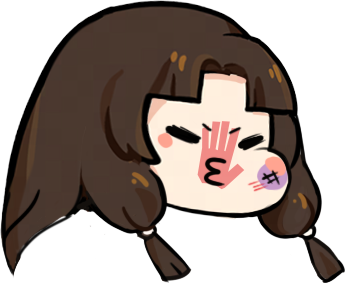
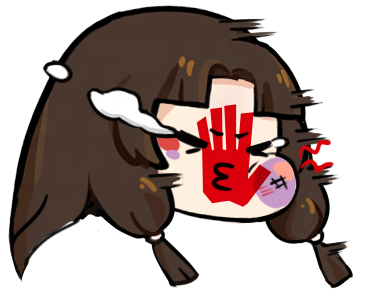
新增动画

Changed region(s): [[0.0, 0.0, 1.0, 1.0], [0.087, 0.6502, 0.1449, 0.7067]]

diff --git a/slap/assets/main/index.js b/slap/assets/main/index.js
@@ -1,10 +1,10 @@
 System.register("chunks:///_virtual/debug-view-runtime-control.ts",["./rollupPluginModLoBabelHelpers.js","cc"],(function(t){var e,o,i,n,s,l,r,a,g,h,p,c,C,d,m,u,L;return{setters:[function(t){e=t.applyDecoratedDescriptor,o=t.inheritsLoose,i=t.initializerDefineProperty,n=t.assertThisInitialized},function(t){s=t.cclegacy,l=t._decorator,r=t.Node,a=t.Canvas,g=t.UITransform,h=t.instantiate,p=t.Label,c=t.Color,C=t.RichText,d=t.Toggle,m=t.Button,u=t.director,L=t.Component}],execute:function(){var f,M,b,v,T,S,x,E,I;s._RF.push({},"b2bd1+njXxJxaFY3ymm06WU","debug-view-runtime-control",void 0);var A=l.ccclass,y=l.property;t("DebugViewRuntimeControl",(f=A("internal.DebugViewRuntimeControl"),M=y(r),b=y(r),v=y(r),f((x=e((S=function(t){function e(){for(var e,o=arguments.length,s=new Array(o),l=0;l<o;l++)s[l]=arguments[l];return e=t.call.apply(t,[this].concat(s))||this,i(e,"compositeModeToggle",x,n(e)),i(e,"singleModeToggle",E,n(e)),i(e,"EnableAllCompositeModeButton",I,n(e)),e._single=0,e.strSingle=["No Single Debug","Vertex Color","Vertex Normal","Vertex Tangent","World Position","Vertex Mirror","Face Side","UV0","UV1","UV Lightmap","Project Depth","Linear Depth","Fragment Normal","Fragment Tangent","Fragment Binormal","Base Color","Diffuse Color","Specular Color","Transparency","Metallic","Roughness","Specular Intensity","IOR","Direct Diffuse","Direct Specular","Direct All","Env Diffuse","Env Specular","Env All","Emissive","Light Map","Shadow","AO","Fresnel","Direct Transmit Diffuse","Direct Transmit Specular","Env Transmit Diffuse","Env Transmit Specular","Transmit All","Direct Internal Specular","Env Internal Specular","Internal All","Fog"],e.strComposite=["Direct Diffuse","Direct Specular","Env Diffuse","Env Specular","Emissive","Light Map","Shadow","AO","Normal Map","Fog","Tone Mapping","Gamma Correction","Fresnel","Transmit Diffuse","Transmit Specular","Internal Specular","TT"],e.strMisc=["CSM Layer Coloration","Lighting With Albedo"],e.compositeModeToggleList=[],e.singleModeToggleList=[],e.miscModeToggleList=[],e.textComponentList=[],e.labelComponentList=[],e.textContentList=[],e.hideButtonLabel=void 0,e._currentColorIndex=0,e.strColor=["<color=#ffffff>","<color=#000000>","<color=#ff0000>","<color=#00ff00>","<color=#0000ff>"],e.color=[c.WHITE,c.BLACK,c.RED,c.GREEN,c.BLUE],e}o(e,t);var s=e.prototype;return s.start=function(){if(this.node.parent.getComponent(a)){var t=this.node.parent.getComponent(g),e=.5*t.width,o=.5*t.height,i=.1*e-e,n=o-.1*o,s=this.node.getChildByName("MiscMode"),l=h(s);l.parent=this.node,l.name="Buttons";var r=h(s);r.parent=this.node,r.name="Titles";for(var u=0;u<2;u++){var L=h(this.EnableAllCompositeModeButton.getChildByName("Label"));L.setPosition(i+(u>0?450:150),n,0),L.setScale(.75,.75,.75),L.parent=r;var f=L.getComponent(p);f.string=u?"----------Composite Mode----------":"----------Single Mode----------",f.color=c.WHITE,f.overflow=0,this.labelComponentList[this.labelComponentList.length]=f}n-=20;for(var M=0,b=0;b<this.strSingle.length;b++,M++){b===this.strSingle.length>>1&&(i+=200,M=0);var v=b?h(this.singleModeToggle):this.singleModeToggle;v.setPosition(i,n-20*M,0),v.setScale(.5,.5,.5),v.parent=this.singleModeToggle.parent;var T=v.getComponentInChildren(C);T.string=this.strSingle[b],this.textComponentList[this.textComponentList.length]=T,this.textContentList[this.textContentList.length]=T.string,v.on(d.EventType.TOGGLE,this.toggleSingleMode,this),this.singleModeToggleList[b]=v}i+=200,this.EnableAllCompositeModeButton.setPosition(i+15,n,0),this.EnableAllCompositeModeButton.setScale(.5,.5,.5),this.EnableAllCompositeModeButton.on(m.EventType.CLICK,this.enableAllCompositeMode,this),this.EnableAllCompositeModeButton.parent=l;var S=this.EnableAllCompositeModeButton.getComponentInChildren(p);this.labelComponentList[this.labelComponentList.length]=S;var x=h(this.EnableAllCompositeModeButton);x.setPosition(i+90,n,0),x.setScale(.5,.5,.5),x.on(m.EventType.CLICK,this.changeTextColor,this),x.parent=l,(S=x.getComponentInChildren(p)).string="TextColor",this.labelComponentList[this.labelComponentList.length]=S;var E=h(this.EnableAllCompositeModeButton);E.setPosition(i+200,n,0),E.setScale(.5,.5,.5),E.on(m.EventType.CLICK,this.hideUI,this),E.parent=this.node.parent,(S=E.getComponentInChildren(p)).string="Hide UI",this.labelComponentList[this.labelComponentList.length]=S,this.hideButtonLabel=S,n-=40;for(var I=0;I<this.strMisc.length;I++){var A=h(this.compositeModeToggle);A.setPosition(i,n-20*I,0),A.setScale(.5,.5,.5),A.parent=s;var y=A.getComponentInChildren(C);y.string=this.strMisc[I],this.textComponentList[this.textComponentList.length]=y,this.textContentList[this.textContentList.length]=y.string,A.getComponent(d).isChecked=!!I,A.on(d.EventType.TOGGLE,I?this.toggleLightingWithAlbedo:this.toggleCSMColoration,this),this.miscModeToggleList[I]=A}n-=150;for(var D=0;D<this.strComposite.length;D++){var B=D?h(this.compositeModeToggle):this.compositeModeToggle;B.setPosition(i,n-20*D,0),B.setScale(.5,.5,.5),B.parent=this.compositeModeToggle.parent;var w=B.getComponentInChildren(C);w.string=this.strComposite[D],this.textComponentList[this.textComponentList.length]=w,this.textContentList[this.textContentList.length]=w.string,B.on(d.EventType.TOGGLE,this.toggleCompositeMode,this),this.compositeModeToggleList[D]=B}}else console.error("debug-view-runtime-control should be child of Canvas")},s.isTextMatched=function(t,e){var o=new String(t),i=o.search(">");return-1===i?t===e:(o=(o=o.substr(i+1)).substr(0,o.search("<")))===e},s.toggleSingleMode=function(t){for(var e=u.root.debugView,o=t.getComponentInChildren(C),i=0;i<this.strSingle.length;i++)this.isTextMatched(o.string,this.strSingle[i])&&(e.singleMode=i)},s.toggleCompositeMode=function(t){for(var e=u.root.debugView,o=t.getComponentInChildren(C),i=0;i<this.strComposite.length;i++)this.isTextMatched(o.string,this.strComposite[i])&&e.enableCompositeMode(i,t.isChecked)},s.toggleLightingWithAlbedo=function(t){u.root.debugView.lightingWithAlbedo=t.isChecked},s.toggleCSMColoration=function(t){u.root.debugView.csmLayerColoration=t.isChecked},s.enableAllCompositeMode=function(t){var e=u.root.debugView;e.enableAllCompositeMode(!0);for(var o=0;o<this.compositeModeToggleList.length;o++){this.compositeModeToggleList[o].getComponent(d).isChecked=!0}var i=this.miscModeToggleList[0].getComponent(d);i.isChecked=!1,e.csmLayerColoration=!1,(i=this.miscModeToggleList[1].getComponent(d)).isChecked=!0,e.lightingWithAlbedo=!0},s.hideUI=function(t){var e=this.node.getChildByName("Titles"),o=!e.active;this.singleModeToggleList[0].parent.active=o,this.miscModeToggleList[0].parent.active=o,this.compositeModeToggleList[0].parent.active=o,this.EnableAllCompositeModeButton.parent.active=o,e.active=o,this.hideButtonLabel.string=o?"Hide UI":"Show UI"},s.changeTextColor=function(t){this._currentColorIndex++,this._currentColorIndex>=this.strColor.length&&(this._currentColorIndex=0);for(var e=0;e<this.textComponentList.length;e++)this.textComponentList[e].string=this.strColor[this._currentColorIndex]+this.textContentList[e]+"</color>";for(var o=0;o<this.labelComponentList.length;o++)this.labelComponentList[o].color=this.color[this._currentColorIndex]},s.onLoad=function(){},s.update=function(t){},e}(L)).prototype,"compositeModeToggle",[M],{configurable:!0,enumerable:!0,writable:!0,initializer:function(){return null}}),E=e(S.prototype,"singleModeToggle",[b],{configurable:!0,enumerable:!0,writable:!0,initializer:function(){return null}}),I=e(S.prototype,"EnableAllCompositeModeButton",[v],{configurable:!0,enumerable:!0,writable:!0,initializer:function(){return null}}),T=S))||T));s._RF.pop()}}}));
 
-System.register("chunks:///_virtual/EnemyArmController.ts",["./rollupPluginModLoBabelHelpers.js","cc"],(function(t){var e,r,n,i,o,a,c,l,s;return{setters:[function(t){e=t.applyDecoratedDescriptor,r=t.inheritsLoose,n=t.initializerDefineProperty,i=t.assertThisInitialized},function(t){o=t.cclegacy,a=t._decorator,c=t.SpriteFrame,l=t.Sprite,s=t.Component}],execute:function(){var p,u,h,m,f;o._RF.push({},"875fa0uRnBIvZFIRDi1kM+M","EnemyArmController",void 0);var d=a.ccclass,v=a.property;t("EnemyArmController",(p=d("EnemyArmController"),u=v(c),p((f=e((m=function(t){function e(){for(var e,r=arguments.length,o=new Array(r),a=0;a<r;a++)o[a]=arguments[a];return e=t.call.apply(t,[this].concat(o))||this,n(e,"attackArm",f,i(e)),e.spriteComponent=null,e}r(e,t);var o=e.prototype;return o.start=function(){this.spriteComponent=this.getComponent(l)},o.update=function(t){},o.originState=function(){this.spriteComponent.spriteFrame=null;for(var t=0;t<this.node.children.length;t++){this.node.children[t].active=!0}},o.attack=function(){var t=this;this.spriteComponent.spriteFrame=this.attackArm;for(var e=0;e<this.node.children.length;e++){this.node.children[e].active=!1}setTimeout((function(){t.originState()}),200)},e}(s)).prototype,"attackArm",[u],{configurable:!0,enumerable:!0,writable:!0,initializer:function(){return null}}),h=m))||h));o._RF.pop()}}}));
+System.register("chunks:///_virtual/EnemyArmController.ts",["./rollupPluginModLoBabelHelpers.js","cc"],(function(t){var e,r,n,i,o,a,c,l,s;return{setters:[function(t){e=t.applyDecoratedDescriptor,r=t.inheritsLoose,n=t.initializerDefineProperty,i=t.assertThisInitialized},function(t){o=t.cclegacy,a=t._decorator,c=t.SpriteFrame,l=t.Sprite,s=t.Component}],execute:function(){var p,u,h,m,f;o._RF.push({},"875fa0uRnBIvZFIRDi1kM+M","EnemyArmController",void 0);var d=a.ccclass,v=a.property;t("EnemyArmController",(p=d("EnemyArmController"),u=v(c),p((f=e((m=function(t){function e(){for(var e,r=arguments.length,o=new Array(r),a=0;a<r;a++)o[a]=arguments[a];return e=t.call.apply(t,[this].concat(o))||this,n(e,"attackArm",f,i(e)),e.spriteComponent=null,e}r(e,t);var o=e.prototype;return o.start=function(){this.spriteComponent=this.getComponent(l)},o.update=function(t){},o.originState=function(){this.spriteComponent.spriteFrame=null;for(var t=0;t<this.node.children.length;t++){this.node.children[t].active=!0}},o.attack=function(){var t=this;this.spriteComponent.spriteFrame=this.attackArm;for(var e=0;e<this.node.children.length;e++){this.node.children[e].active=!1}setTimeout((function(){t.originState()}),300)},e}(s)).prototype,"attackArm",[u],{configurable:!0,enumerable:!0,writable:!0,initializer:function(){return null}}),h=m))||h));o._RF.pop()}}}));
 
-System.register("chunks:///_virtual/EnemyFaceController.ts",["./rollupPluginModLoBabelHelpers.js","cc"],(function(e){var t,n,r,i,o,a,c,l,p;return{setters:[function(e){t=e.applyDecoratedDescriptor,n=e.inheritsLoose,r=e.initializerDefineProperty,i=e.assertThisInitialized},function(e){o=e.cclegacy,a=e._decorator,c=e.SpriteFrame,l=e.Sprite,p=e.Component}],execute:function(){var s,u,f,m,y,h,C;o._RF.push({},"19e411QneJFA6MBiZQ+m6LV","EnemyFaceController",void 0);var F=a.ccclass,v=a.property;e("EnemyFaceController",(s=F("EnemyFaceController"),u=v(c),f=v(c),s((h=t((y=function(e){function t(){for(var t,n=arguments.length,o=new Array(n),a=0;a<n;a++)o[a]=arguments[a];return t=e.call.apply(e,[this].concat(o))||this,r(t,"face1",h,i(t)),r(t,"face2",C,i(t)),t.spriteComponent=null,t}n(t,e);var o=t.prototype;return o.start=function(){this.spriteComponent=this.getComponent(l)},o.update=function(e){},o.attack=function(){var e=this;this.spriteComponent.spriteFrame=this.face2,setTimeout((function(){e.spriteComponent.spriteFrame=e.face1}),200)},t}(p)).prototype,"face1",[u],{configurable:!0,enumerable:!0,writable:!0,initializer:function(){return null}}),C=t(y.prototype,"face2",[f],{configurable:!0,enumerable:!0,writable:!0,initializer:function(){return null}}),m=y))||m));o._RF.pop()}}}));
+System.register("chunks:///_virtual/EnemyFaceController.ts",["./rollupPluginModLoBabelHelpers.js","cc"],(function(e){var t,n,r,i,o,a,c,l,p;return{setters:[function(e){t=e.applyDecoratedDescriptor,n=e.inheritsLoose,r=e.initializerDefineProperty,i=e.assertThisInitialized},function(e){o=e.cclegacy,a=e._decorator,c=e.SpriteFrame,l=e.Sprite,p=e.Component}],execute:function(){var s,u,f,m,y,h,C;o._RF.push({},"19e411QneJFA6MBiZQ+m6LV","EnemyFaceController",void 0);var F=a.ccclass,v=a.property;e("EnemyFaceController",(s=F("EnemyFaceController"),u=v(c),f=v(c),s((h=t((y=function(e){function t(){for(var t,n=arguments.length,o=new Array(n),a=0;a<n;a++)o[a]=arguments[a];return t=e.call.apply(e,[this].concat(o))||this,r(t,"face1",h,i(t)),r(t,"face2",C,i(t)),t.spriteComponent=null,t}n(t,e);var o=t.prototype;return o.start=function(){this.spriteComponent=this.getComponent(l)},o.update=function(e){},o.attack=function(){var e=this;this.spriteComponent.spriteFrame=this.face2,setTimeout((function(){e.spriteComponent.spriteFrame=e.face1}),300)},t}(p)).prototype,"face1",[u],{configurable:!0,enumerable:!0,writable:!0,initializer:function(){return null}}),C=t(y.prototype,"face2",[f],{configurable:!0,enumerable:!0,writable:!0,initializer:function(){return null}}),m=y))||m));o._RF.pop()}}}));
 
-System.register("chunks:///_virtual/EnemyHeadController.ts",["./rollupPluginModLoBabelHelpers.js","cc"],(function(e){var t,n,r,i,o,a,l,s,c;return{setters:[function(e){t=e.applyDecoratedDescriptor,n=e.inheritsLoose,r=e.initializerDefineProperty,i=e.assertThisInitialized},function(e){o=e.cclegacy,a=e._decorator,l=e.SpriteFrame,s=e.Sprite,c=e.Component}],execute:function(){var p,u,h,d,f;o._RF.push({},"83301FNra1M8ZoqODkyof2f","EnemyHeadController",void 0);var m=a.ccclass,y=a.property;e("EnemyHeadController",(p=m("EnemyHeadController"),u=y(l),p((f=t((d=function(e){function t(){for(var t,n=arguments.length,o=new Array(n),a=0;a<n;a++)o[a]=arguments[a];return t=e.call.apply(e,[this].concat(o))||this,r(t,"hittedHead",f,i(t)),t.spriteComponent=null,t}n(t,e);var o=t.prototype;return o.start=function(){this.spriteComponent=this.getComponent(s)},o.update=function(e){},o.originState=function(){this.spriteComponent.spriteFrame=null;for(var e=0;e<this.node.children.length;e++){this.node.children[e].active=!0}},o.hitted=function(){var e=this;this.spriteComponent.spriteFrame=this.hittedHead;for(var t=0;t<this.node.children.length;t++){this.node.children[t].active=!1}setTimeout((function(){e.originState()}),200)},t}(c)).prototype,"hittedHead",[u],{configurable:!0,enumerable:!0,writable:!0,initializer:function(){return null}}),h=d))||h));o._RF.pop()}}}));
+System.register("chunks:///_virtual/EnemyHeadController.ts",["./rollupPluginModLoBabelHelpers.js","cc"],(function(e){var t,n,r,i,o,a,l,s,c;return{setters:[function(e){t=e.applyDecoratedDescriptor,n=e.inheritsLoose,r=e.initializerDefineProperty,i=e.assertThisInitialized},function(e){o=e.cclegacy,a=e._decorator,l=e.SpriteFrame,s=e.Sprite,c=e.Component}],execute:function(){var p,u,h,d,f;o._RF.push({},"83301FNra1M8ZoqODkyof2f","EnemyHeadController",void 0);var m=a.ccclass,y=a.property;e("EnemyHeadController",(p=m("EnemyHeadController"),u=y(l),p((f=t((d=function(e){function t(){for(var t,n=arguments.length,o=new Array(n),a=0;a<n;a++)o[a]=arguments[a];return t=e.call.apply(e,[this].concat(o))||this,r(t,"hittedHead",f,i(t)),t.spriteComponent=null,t}n(t,e);var o=t.prototype;return o.start=function(){this.spriteComponent=this.getComponent(s)},o.update=function(e){},o.originState=function(){this.spriteComponent.spriteFrame=null;for(var e=0;e<this.node.children.length;e++){this.node.children[e].active=!0}},o.hitted=function(){var e=this;this.spriteComponent.spriteFrame=this.hittedHead;for(var t=0;t<this.node.children.length;t++){this.node.children[t].active=!1}setTimeout((function(){e.originState()}),300)},t}(c)).prototype,"hittedHead",[u],{configurable:!0,enumerable:!0,writable:!0,initializer:function(){return null}}),h=d))||h));o._RF.pop()}}}));
 
 System.register("chunks:///_virtual/EnemyLightController.ts",["./rollupPluginModLoBabelHelpers.js","cc"],(function(e){var t,r,i,n,o,l,s,a,p;return{setters:[function(e){t=e.applyDecoratedDescriptor,r=e.inheritsLoose,i=e.initializerDefineProperty,n=e.assertThisInitialized},function(e){o=e.cclegacy,l=e._decorator,s=e.SpriteFrame,a=e.Sprite,p=e.Component}],execute:function(){var c,u,h,m,b,f,y,C,g;o._RF.push({},"b85d0b++5VEaK0E1WKVrnJc","EnemyLightController",void 0);var d=l.ccclass,w=l.property;e("EnemyLightController",(c=d("EnemyLightController"),u=w(s),h=w(s),m=w(s),c((y=t((f=function(e){function t(){for(var t,r=arguments.length,o=new Array(r),l=0;l<r;l++)o[l]=arguments[l];return t=e.call.apply(e,[this].concat(o))||this,i(t,"blue",y,n(t)),i(t,"white",C,n(t)),i(t,"red",g,n(t)),t.spriteComponent=null,t.color=0,t}r(t,e);var o=t.prototype;return o.start=function(){this.spriteComponent=this.getComponent(a)},o.update=function(e){},o.setColor=function(e){switch(e){case 0:this.spriteComponent.spriteFrame=this.blue,this.color=0;break;case 1:this.spriteComponent.spriteFrame=this.white,this.color=1;break;case 2:this.spriteComponent.spriteFrame=this.red,this.color=2;break;default:this.spriteComponent.spriteFrame=this.blue,this.color=0}},o.reset=function(){this.color=0,this.spriteComponent.spriteFrame=this.blue},t}(p)).prototype,"blue",[u],{configurable:!0,enumerable:!0,writable:!0,initializer:function(){return null}}),C=t(f.prototype,"white",[h],{configurable:!0,enumerable:!0,writable:!0,initializer:function(){return null}}),g=t(f.prototype,"red",[m],{configurable:!0,enumerable:!0,writable:!0,initializer:function(){return null}}),b=f))||b));o._RF.pop()}}}));
 
@@ -14,17 +14,17 @@ System.register("chunks:///_virtual/GameController.ts",["./rollupPluginModLoBabe
 
 System.register("chunks:///_virtual/main",["./debug-view-runtime-control.ts","./GameController.ts","./EnemyArmController.ts","./EnemyFaceController.ts","./EnemyHeadController.ts","./EnemyLightController.ts","./EnemyState.ts","./PlayerArmController.ts","./PlayerFaceController.ts","./PlayerHairController.ts","./PlayerHeadController.ts","./PlayerLightController.ts","./PlayerState.ts"],(function(){return{setters:[null,null,null,null,null,null,null,null,null,null,null,null,null],execute:function(){}}}));
 
-System.register("chunks:///_virtual/PlayerArmController.ts",["./rollupPluginModLoBabelHelpers.js","cc"],(function(t){var e,r,n,i,o,a,l,c,s;return{setters:[function(t){e=t.applyDecoratedDescriptor,r=t.inheritsLoose,n=t.initializerDefineProperty,i=t.assertThisInitialized},function(t){o=t.cclegacy,a=t._decorator,l=t.SpriteFrame,c=t.Sprite,s=t.Component}],execute:function(){var p,u,h,m,f;o._RF.push({},"6f52eXm2rtO3oMFyDiKURab","PlayerArmController",void 0);var d=a.ccclass,y=a.property;t("PlayerArmController",(p=d("PlayerArmController"),u=y(l),p((f=e((m=function(t){function e(){for(var e,r=arguments.length,o=new Array(r),a=0;a<r;a++)o[a]=arguments[a];return e=t.call.apply(t,[this].concat(o))||this,n(e,"attackArm",f,i(e)),e.spriteComponent=null,e}r(e,t);var o=e.prototype;return o.start=function(){this.spriteComponent=this.getComponent(c)},o.update=function(t){},o.originState=function(){this.spriteComponent.spriteFrame=null;for(var t=0;t<this.node.children.length;t++){this.node.children[t].active=!0}},o.attack=function(){var t=this;this.spriteComponent.spriteFrame=this.attackArm;for(var e=0;e<this.node.children.length;e++){this.node.children[e].active=!1}setTimeout((function(){t.originState()}),200)},e}(s)).prototype,"attackArm",[u],{configurable:!0,enumerable:!0,writable:!0,initializer:function(){return null}}),h=m))||h));o._RF.pop()}}}));
+System.register("chunks:///_virtual/PlayerArmController.ts",["./rollupPluginModLoBabelHelpers.js","cc"],(function(t){var e,r,n,i,o,a,l,c,s;return{setters:[function(t){e=t.applyDecoratedDescriptor,r=t.inheritsLoose,n=t.initializerDefineProperty,i=t.assertThisInitialized},function(t){o=t.cclegacy,a=t._decorator,l=t.SpriteFrame,c=t.Sprite,s=t.Component}],execute:function(){var p,u,h,m,f;o._RF.push({},"6f52eXm2rtO3oMFyDiKURab","PlayerArmController",void 0);var d=a.ccclass,y=a.property;t("PlayerArmController",(p=d("PlayerArmController"),u=y(l),p((f=e((m=function(t){function e(){for(var e,r=arguments.length,o=new Array(r),a=0;a<r;a++)o[a]=arguments[a];return e=t.call.apply(t,[this].concat(o))||this,n(e,"attackArm",f,i(e)),e.spriteComponent=null,e}r(e,t);var o=e.prototype;return o.start=function(){this.spriteComponent=this.getComponent(c)},o.update=function(t){},o.originState=function(){this.spriteComponent.spriteFrame=null;for(var t=0;t<this.node.children.length;t++){this.node.children[t].active=!0}},o.attack=function(){var t=this;this.spriteComponent.spriteFrame=this.attackArm;for(var e=0;e<this.node.children.length;e++){this.node.children[e].active=!1}setTimeout((function(){t.originState()}),300)},e}(s)).prototype,"attackArm",[u],{configurable:!0,enumerable:!0,writable:!0,initializer:function(){return null}}),h=m))||h));o._RF.pop()}}}));
 
-System.register("chunks:///_virtual/PlayerFaceController.ts",["./rollupPluginModLoBabelHelpers.js","cc"],(function(e){var t,r,n,i,o,a,c,l,p;return{setters:[function(e){t=e.applyDecoratedDescriptor,r=e.inheritsLoose,n=e.initializerDefineProperty,i=e.assertThisInitialized},function(e){o=e.cclegacy,a=e._decorator,c=e.SpriteFrame,l=e.Sprite,p=e.Component}],execute:function(){var s,u,f,m,h,y,F;o._RF.push({},"844a0gFHGtNE6pGXJLwLmRq","PlayerFaceController",void 0);var C=a.ccclass,g=a.property;e("PlayerFaceController",(s=C("PlayerFaceController"),u=g(c),f=g(c),s((y=t((h=function(e){function t(){for(var t,r=arguments.length,o=new Array(r),a=0;a<r;a++)o[a]=arguments[a];return t=e.call.apply(e,[this].concat(o))||this,n(t,"face1",y,i(t)),n(t,"face2",F,i(t)),t.spriteComponent=null,t}r(t,e);var o=t.prototype;return o.start=function(){this.spriteComponent=this.getComponent(l)},o.update=function(e){},o.changeFace=function(){this.spriteComponent.spriteFrame="face1"==this.spriteComponent.spriteFrame.name?this.face2:this.face1},o.attack=function(){var e=this;this.spriteComponent.spriteFrame=this.face2,setTimeout((function(){e.spriteComponent.spriteFrame=e.face1}),200)},t}(p)).prototype,"face1",[u],{configurable:!0,enumerable:!0,writable:!0,initializer:function(){return null}}),F=t(h.prototype,"face2",[f],{configurable:!0,enumerable:!0,writable:!0,initializer:function(){return null}}),m=h))||m));o._RF.pop()}}}));
+System.register("chunks:///_virtual/PlayerFaceController.ts",["./rollupPluginModLoBabelHelpers.js","cc"],(function(e){var t,r,n,i,o,a,c,l,p;return{setters:[function(e){t=e.applyDecoratedDescriptor,r=e.inheritsLoose,n=e.initializerDefineProperty,i=e.assertThisInitialized},function(e){o=e.cclegacy,a=e._decorator,c=e.SpriteFrame,l=e.Sprite,p=e.Component}],execute:function(){var s,u,f,m,h,y,F;o._RF.push({},"844a0gFHGtNE6pGXJLwLmRq","PlayerFaceController",void 0);var C=a.ccclass,g=a.property;e("PlayerFaceController",(s=C("PlayerFaceController"),u=g(c),f=g(c),s((y=t((h=function(e){function t(){for(var t,r=arguments.length,o=new Array(r),a=0;a<r;a++)o[a]=arguments[a];return t=e.call.apply(e,[this].concat(o))||this,n(t,"face1",y,i(t)),n(t,"face2",F,i(t)),t.spriteComponent=null,t}r(t,e);var o=t.prototype;return o.start=function(){this.spriteComponent=this.getComponent(l)},o.update=function(e){},o.changeFace=function(){this.spriteComponent.spriteFrame="face1"==this.spriteComponent.spriteFrame.name?this.face2:this.face1},o.attack=function(){var e=this;this.spriteComponent.spriteFrame=this.face2,setTimeout((function(){e.spriteComponent.spriteFrame=e.face1}),300)},t}(p)).prototype,"face1",[u],{configurable:!0,enumerable:!0,writable:!0,initializer:function(){return null}}),F=t(h.prototype,"face2",[f],{configurable:!0,enumerable:!0,writable:!0,initializer:function(){return null}}),m=h))||m));o._RF.pop()}}}));
 
-System.register("chunks:///_virtual/PlayerHairController.ts",["./rollupPluginModLoBabelHelpers.js","cc"],(function(r){var t,e,i,n,o,a,l,p,s;return{setters:[function(r){t=r.applyDecoratedDescriptor,e=r.inheritsLoose,i=r.initializerDefineProperty,n=r.assertThisInitialized},function(r){o=r.cclegacy,a=r._decorator,l=r.SpriteFrame,p=r.Sprite,s=r.Component}],execute:function(){var c,u,h,f,m,y,C;o._RF.push({},"7cf0cA7yMFCf7R/HDRr816l","PlayerHairController",void 0);var g=a.ccclass,v=a.property;r("PlayerHairController",(c=g("PlayerHairController"),u=v(l),h=v(l),c((y=t((m=function(r){function t(){for(var t,e=arguments.length,o=new Array(e),a=0;a<e;a++)o[a]=arguments[a];return t=r.call.apply(r,[this].concat(o))||this,i(t,"hair1",y,n(t)),i(t,"hair2",C,n(t)),t.spriteComponent=null,t}e(t,r);var o=t.prototype;return o.start=function(){this.spriteComponent=this.getComponent(p)},o.update=function(r){},o.changeHair=function(){this.spriteComponent.spriteFrame="hair1"==this.spriteComponent.spriteFrame.name?this.hair2:this.hair1},o.attack=function(){var r=this;this.spriteComponent.spriteFrame=this.hair2,setTimeout((function(){r.spriteComponent.spriteFrame=r.hair1}),200)},t}(s)).prototype,"hair1",[u],{configurable:!0,enumerable:!0,writable:!0,initializer:function(){return null}}),C=t(m.prototype,"hair2",[h],{configurable:!0,enumerable:!0,writable:!0,initializer:function(){return null}}),f=m))||f));o._RF.pop()}}}));
+System.register("chunks:///_virtual/PlayerHairController.ts",["./rollupPluginModLoBabelHelpers.js","cc"],(function(r){var t,e,i,n,o,a,l,p,s;return{setters:[function(r){t=r.applyDecoratedDescriptor,e=r.inheritsLoose,i=r.initializerDefineProperty,n=r.assertThisInitialized},function(r){o=r.cclegacy,a=r._decorator,l=r.SpriteFrame,p=r.Sprite,s=r.Component}],execute:function(){var c,u,h,f,m,y,C;o._RF.push({},"7cf0cA7yMFCf7R/HDRr816l","PlayerHairController",void 0);var g=a.ccclass,v=a.property;r("PlayerHairController",(c=g("PlayerHairController"),u=v(l),h=v(l),c((y=t((m=function(r){function t(){for(var t,e=arguments.length,o=new Array(e),a=0;a<e;a++)o[a]=arguments[a];return t=r.call.apply(r,[this].concat(o))||this,i(t,"hair1",y,n(t)),i(t,"hair2",C,n(t)),t.spriteComponent=null,t}e(t,r);var o=t.prototype;return o.start=function(){this.spriteComponent=this.getComponent(p)},o.update=function(r){},o.changeHair=function(){this.spriteComponent.spriteFrame="hair1"==this.spriteComponent.spriteFrame.name?this.hair2:this.hair1},o.attack=function(){var r=this;this.spriteComponent.spriteFrame=this.hair2,setTimeout((function(){r.spriteComponent.spriteFrame=r.hair1}),300)},t}(s)).prototype,"hair1",[u],{configurable:!0,enumerable:!0,writable:!0,initializer:function(){return null}}),C=t(m.prototype,"hair2",[h],{configurable:!0,enumerable:!0,writable:!0,initializer:function(){return null}}),f=m))||f));o._RF.pop()}}}));
 
-System.register("chunks:///_virtual/PlayerHeadController.ts",["./rollupPluginModLoBabelHelpers.js","cc"],(function(e){var t,r,n,i,o,a,l,s,c;return{setters:[function(e){t=e.applyDecoratedDescriptor,r=e.inheritsLoose,n=e.initializerDefineProperty,i=e.assertThisInitialized},function(e){o=e.cclegacy,a=e._decorator,l=e.SpriteFrame,s=e.Sprite,c=e.Component}],execute:function(){var p,u,h,d,f;o._RF.push({},"cf51e1wCXtGkpO8L6u7Mqdi","PlayerHeadController",void 0);var y=a.ccclass,m=a.property;e("PlayerHeadController",(p=y("PlayerHeadController"),u=m(l),p((f=t((d=function(e){function t(){for(var t,r=arguments.length,o=new Array(r),a=0;a<r;a++)o[a]=arguments[a];return t=e.call.apply(e,[this].concat(o))||this,n(t,"hittedHead",f,i(t)),t.spriteComponent=null,t}r(t,e);var o=t.prototype;return o.start=function(){this.spriteComponent=this.getComponent(s)},o.update=function(e){},o.originState=function(){this.spriteComponent.spriteFrame=null;for(var e=0;e<this.node.children.length;e++){this.node.children[e].active=!0}},o.hitted=function(){var e=this;this.spriteComponent.spriteFrame=this.hittedHead;for(var t=0;t<this.node.children.length;t++){this.node.children[t].active=!1}setTimeout((function(){e.originState()}),200)},t}(c)).prototype,"hittedHead",[u],{configurable:!0,enumerable:!0,writable:!0,initializer:function(){return null}}),h=d))||h));o._RF.pop()}}}));
+System.register("chunks:///_virtual/PlayerHeadController.ts",["./rollupPluginModLoBabelHelpers.js","cc"],(function(e){var t,r,n,i,o,a,l,s,c;return{setters:[function(e){t=e.applyDecoratedDescriptor,r=e.inheritsLoose,n=e.initializerDefineProperty,i=e.assertThisInitialized},function(e){o=e.cclegacy,a=e._decorator,l=e.SpriteFrame,s=e.Sprite,c=e.Component}],execute:function(){var p,u,h,d,f;o._RF.push({},"cf51e1wCXtGkpO8L6u7Mqdi","PlayerHeadController",void 0);var y=a.ccclass,m=a.property;e("PlayerHeadController",(p=y("PlayerHeadController"),u=m(l),p((f=t((d=function(e){function t(){for(var t,r=arguments.length,o=new Array(r),a=0;a<r;a++)o[a]=arguments[a];return t=e.call.apply(e,[this].concat(o))||this,n(t,"hittedHead",f,i(t)),t.spriteComponent=null,t}r(t,e);var o=t.prototype;return o.start=function(){this.spriteComponent=this.getComponent(s)},o.update=function(e){},o.originState=function(){this.spriteComponent.spriteFrame=null;for(var e=0;e<this.node.children.length;e++){this.node.children[e].active=!0}},o.hitted=function(){var e=this;this.spriteComponent.spriteFrame=this.hittedHead;for(var t=0;t<this.node.children.length;t++){this.node.children[t].active=!1}setTimeout((function(){e.originState()}),300)},t}(c)).prototype,"hittedHead",[u],{configurable:!0,enumerable:!0,writable:!0,initializer:function(){return null}}),h=d))||h));o._RF.pop()}}}));
 
 System.register("chunks:///_virtual/PlayerLightController.ts",["./rollupPluginModLoBabelHelpers.js","cc"],(function(e){var t,r,i,n,o,l,a,s,p;return{setters:[function(e){t=e.applyDecoratedDescriptor,r=e.inheritsLoose,i=e.initializerDefineProperty,n=e.assertThisInitialized},function(e){o=e.cclegacy,l=e._decorator,a=e.SpriteFrame,s=e.Sprite,p=e.Component}],execute:function(){var c,u,h,m,b,f,y,g,d;o._RF.push({},"d456anQ/ydM6ayHzz/egSV5","PlayerLightController",void 0);var C=l.ccclass,w=l.property;e("PlayerLightController",(c=C("PlayerLightController"),u=w(a),h=w(a),m=w(a),c((y=t((f=function(e){function t(){for(var t,r=arguments.length,o=new Array(r),l=0;l<r;l++)o[l]=arguments[l];return t=e.call.apply(e,[this].concat(o))||this,i(t,"blue",y,n(t)),i(t,"white",g,n(t)),i(t,"red",d,n(t)),t.spriteComponent=null,t.color=0,t}r(t,e);var o=t.prototype;return o.start=function(){this.spriteComponent=this.getComponent(s)},o.update=function(e){},o.attack=function(e){switch(e.target.name){case"blue":this.spriteComponent.spriteFrame=this.blue,this.color=0;break;case"white":this.spriteComponent.spriteFrame=this.white,this.color=1;break;case"red":this.spriteComponent.spriteFrame=this.red,this.color=2;break;default:this.spriteComponent.spriteFrame=this.blue,this.color=0}},o.reset=function(){this.color=0,this.spriteComponent.spriteFrame=this.blue},t}(p)).prototype,"blue",[u],{configurable:!0,enumerable:!0,writable:!0,initializer:function(){return null}}),g=t(f.prototype,"white",[h],{configurable:!0,enumerable:!0,writable:!0,initializer:function(){return null}}),d=t(f.prototype,"red",[m],{configurable:!0,enumerable:!0,writable:!0,initializer:function(){return null}}),b=f))||b));o._RF.pop()}}}));
 
-System.register("chunks:///_virtual/PlayerState.ts",["./rollupPluginModLoBabelHelpers.js","cc","./PlayerArmController.ts","./PlayerHairController.ts","./PlayerFaceController.ts","./PlayerHeadController.ts","./PlayerLightController.ts"],(function(e){var t,n,r,i,l,a,o,u,c,s,h,y,f;return{setters:[function(e){t=e.applyDecoratedDescriptor,n=e.inheritsLoose,r=e.initializerDefineProperty,i=e.assertThisInitialized},function(e){l=e.cclegacy,a=e._decorator,o=e.Node,u=e.Component},function(e){c=e.PlayerArmController},function(e){s=e.PlayerHairController},function(e){h=e.PlayerFaceController},function(e){y=e.PlayerHeadController},function(e){f=e.PlayerLightController}],execute:function(){var g,p,m,b,C,d,_,v,P,w,z,E,k,H,L,S,B,F,N;l._RF.push({},"0833e0g5f1Ke6oooxeuLjEx","PlayerState",void 0);var x=a.ccclass,A=a.property;e("PlayerState",(g=x("PlayerState"),p=A(o),m=A(o),b=A(o),C=A(o),d=A(o),_=A(o),v=A(o),P=A(o),g((E=t((z=function(e){function t(){for(var t,n=arguments.length,l=new Array(n),a=0;a<n;a++)l[a]=arguments[a];return t=e.call.apply(e,[this].concat(l))||this,r(t,"head",E,i(t)),r(t,"arm",k,i(t)),r(t,"face",H,i(t)),r(t,"hair",L,i(t)),r(t,"light",S,i(t)),r(t,"flash_win",B,i(t)),r(t,"flash_loss",F,i(t)),r(t,"energy_line",N,i(t)),t.energy=0,t.fullEnergy=!1,t}n(t,e);var l=t.prototype;return l.start=function(){},l.update=function(e){this.energy_line.getChildByName("energy").active=this.energy>0,this.energy_line.getChildByName("energy1").active=this.energy>1,this.energy_line.getChildByName("energy2").active=this.energy>2,this.fullEnergy=3==this.energy},l.attack=function(){var e=this;this.arm.getComponent(c).attack(),this.hair.getComponent(s).attack(),this.face.getComponent(h).attack(),this.flash_win.active=!0,setTimeout((function(){e.flash_win.active=!1}),200)},l.addEnergy=function(){this.energy=this.energy>3?3:this.energy+1},l.hitted=function(){var e=this;this.head.getComponent(y).hitted(),this.flash_loss.active=!0,this.energy=this.energy>0?this.energy-1:0,setTimeout((function(){e.flash_loss.active=!1}),200)},l.getColor=function(){return this.light.getComponent(f).color},l.clearEnergy=function(){this.energy=0,this.fullEnergy=!1},l.reset=function(){this.light.getComponent(f).reset()},t}(u)).prototype,"head",[p],{configurable:!0,enumerable:!0,writable:!0,initializer:function(){return null}}),k=t(z.prototype,"arm",[m],{configurable:!0,enumerable:!0,writable:!0,initializer:function(){return null}}),H=t(z.prototype,"face",[b],{configurable:!0,enumerable:!0,writable:!0,initializer:function(){return null}}),L=t(z.prototype,"hair",[C],{configurable:!0,enumerable:!0,writable:!0,initializer:function(){return null}}),S=t(z.prototype,"light",[d],{configurable:!0,enumerable:!0,writable:!0,initializer:function(){return null}}),B=t(z.prototype,"flash_win",[_],{configurable:!0,enumerable:!0,writable:!0,initializer:function(){return null}}),F=t(z.prototype,"flash_loss",[v],{configurable:!0,enumerable:!0,writable:!0,initializer:function(){return null}}),N=t(z.prototype,"energy_line",[P],{configurable:!0,enumerable:!0,writable:!0,initializer:function(){return null}}),w=z))||w));l._RF.pop()}}}));
+System.register("chunks:///_virtual/PlayerState.ts",["./rollupPluginModLoBabelHelpers.js","cc","./PlayerArmController.ts","./PlayerHairController.ts","./PlayerFaceController.ts","./PlayerHeadController.ts","./PlayerLightController.ts"],(function(e){var t,n,r,i,l,a,o,u,c,s,h,y,f;return{setters:[function(e){t=e.applyDecoratedDescriptor,n=e.inheritsLoose,r=e.initializerDefineProperty,i=e.assertThisInitialized},function(e){l=e.cclegacy,a=e._decorator,o=e.Node,u=e.Component},function(e){c=e.PlayerArmController},function(e){s=e.PlayerHairController},function(e){h=e.PlayerFaceController},function(e){y=e.PlayerHeadController},function(e){f=e.PlayerLightController}],execute:function(){var g,p,m,b,C,d,_,v,P,w,z,E,k,H,L,S,B,F,N;l._RF.push({},"0833e0g5f1Ke6oooxeuLjEx","PlayerState",void 0);var x=a.ccclass,A=a.property;e("PlayerState",(g=x("PlayerState"),p=A(o),m=A(o),b=A(o),C=A(o),d=A(o),_=A(o),v=A(o),P=A(o),g((E=t((z=function(e){function t(){for(var t,n=arguments.length,l=new Array(n),a=0;a<n;a++)l[a]=arguments[a];return t=e.call.apply(e,[this].concat(l))||this,r(t,"head",E,i(t)),r(t,"arm",k,i(t)),r(t,"face",H,i(t)),r(t,"hair",L,i(t)),r(t,"light",S,i(t)),r(t,"flash_win",B,i(t)),r(t,"flash_loss",F,i(t)),r(t,"energy_line",N,i(t)),t.energy=0,t.fullEnergy=!1,t}n(t,e);var l=t.prototype;return l.start=function(){},l.update=function(e){this.energy_line.getChildByName("energy").active=this.energy>0,this.energy_line.getChildByName("energy1").active=this.energy>1,this.energy_line.getChildByName("energy2").active=this.energy>2,this.fullEnergy=3==this.energy},l.attack=function(){var e=this;this.arm.getComponent(c).attack(),this.hair.getComponent(s).attack(),this.face.getComponent(h).attack(),this.flash_win.active=!0,setTimeout((function(){e.flash_win.active=!1}),300)},l.addEnergy=function(){this.energy=this.energy>3?3:this.energy+1},l.hitted=function(){var e=this;this.head.getComponent(y).hitted(),this.flash_loss.active=!0,this.energy=this.energy>0?this.energy-1:0,setTimeout((function(){e.flash_loss.active=!1}),300)},l.getColor=function(){return this.light.getComponent(f).color},l.clearEnergy=function(){this.energy=0,this.fullEnergy=!1},l.reset=function(){this.light.getComponent(f).reset()},t}(u)).prototype,"head",[p],{configurable:!0,enumerable:!0,writable:!0,initializer:function(){return null}}),k=t(z.prototype,"arm",[m],{configurable:!0,enumerable:!0,writable:!0,initializer:function(){return null}}),H=t(z.prototype,"face",[b],{configurable:!0,enumerable:!0,writable:!0,initializer:function(){return null}}),L=t(z.prototype,"hair",[C],{configurable:!0,enumerable:!0,writable:!0,initializer:function(){return null}}),S=t(z.prototype,"light",[d],{configurable:!0,enumerable:!0,writable:!0,initializer:function(){return null}}),B=t(z.prototype,"flash_win",[_],{configurable:!0,enumerable:!0,writable:!0,initializer:function(){return null}}),F=t(z.prototype,"flash_loss",[v],{configurable:!0,enumerable:!0,writable:!0,initializer:function(){return null}}),N=t(z.prototype,"energy_line",[P],{configurable:!0,enumerable:!0,writable:!0,initializer:function(){return null}}),w=z))||w));l._RF.pop()}}}));
 
 (function(r) {
   r('virtual:///prerequisite-imports/main', 'chunks:///_virtual/main'); 

diff --git a/slap/index.html b/slap/index.html
@@ -3,7 +3,7 @@
 <head>
   <meta charset="utf-8">
 
-  <title>有手就行</title>
+  <title>Cocos Creator | slap</title>
 
   <!--http://www.html5rocks.com/en/mobile/mobifying/-->
   <meta name="viewport"
